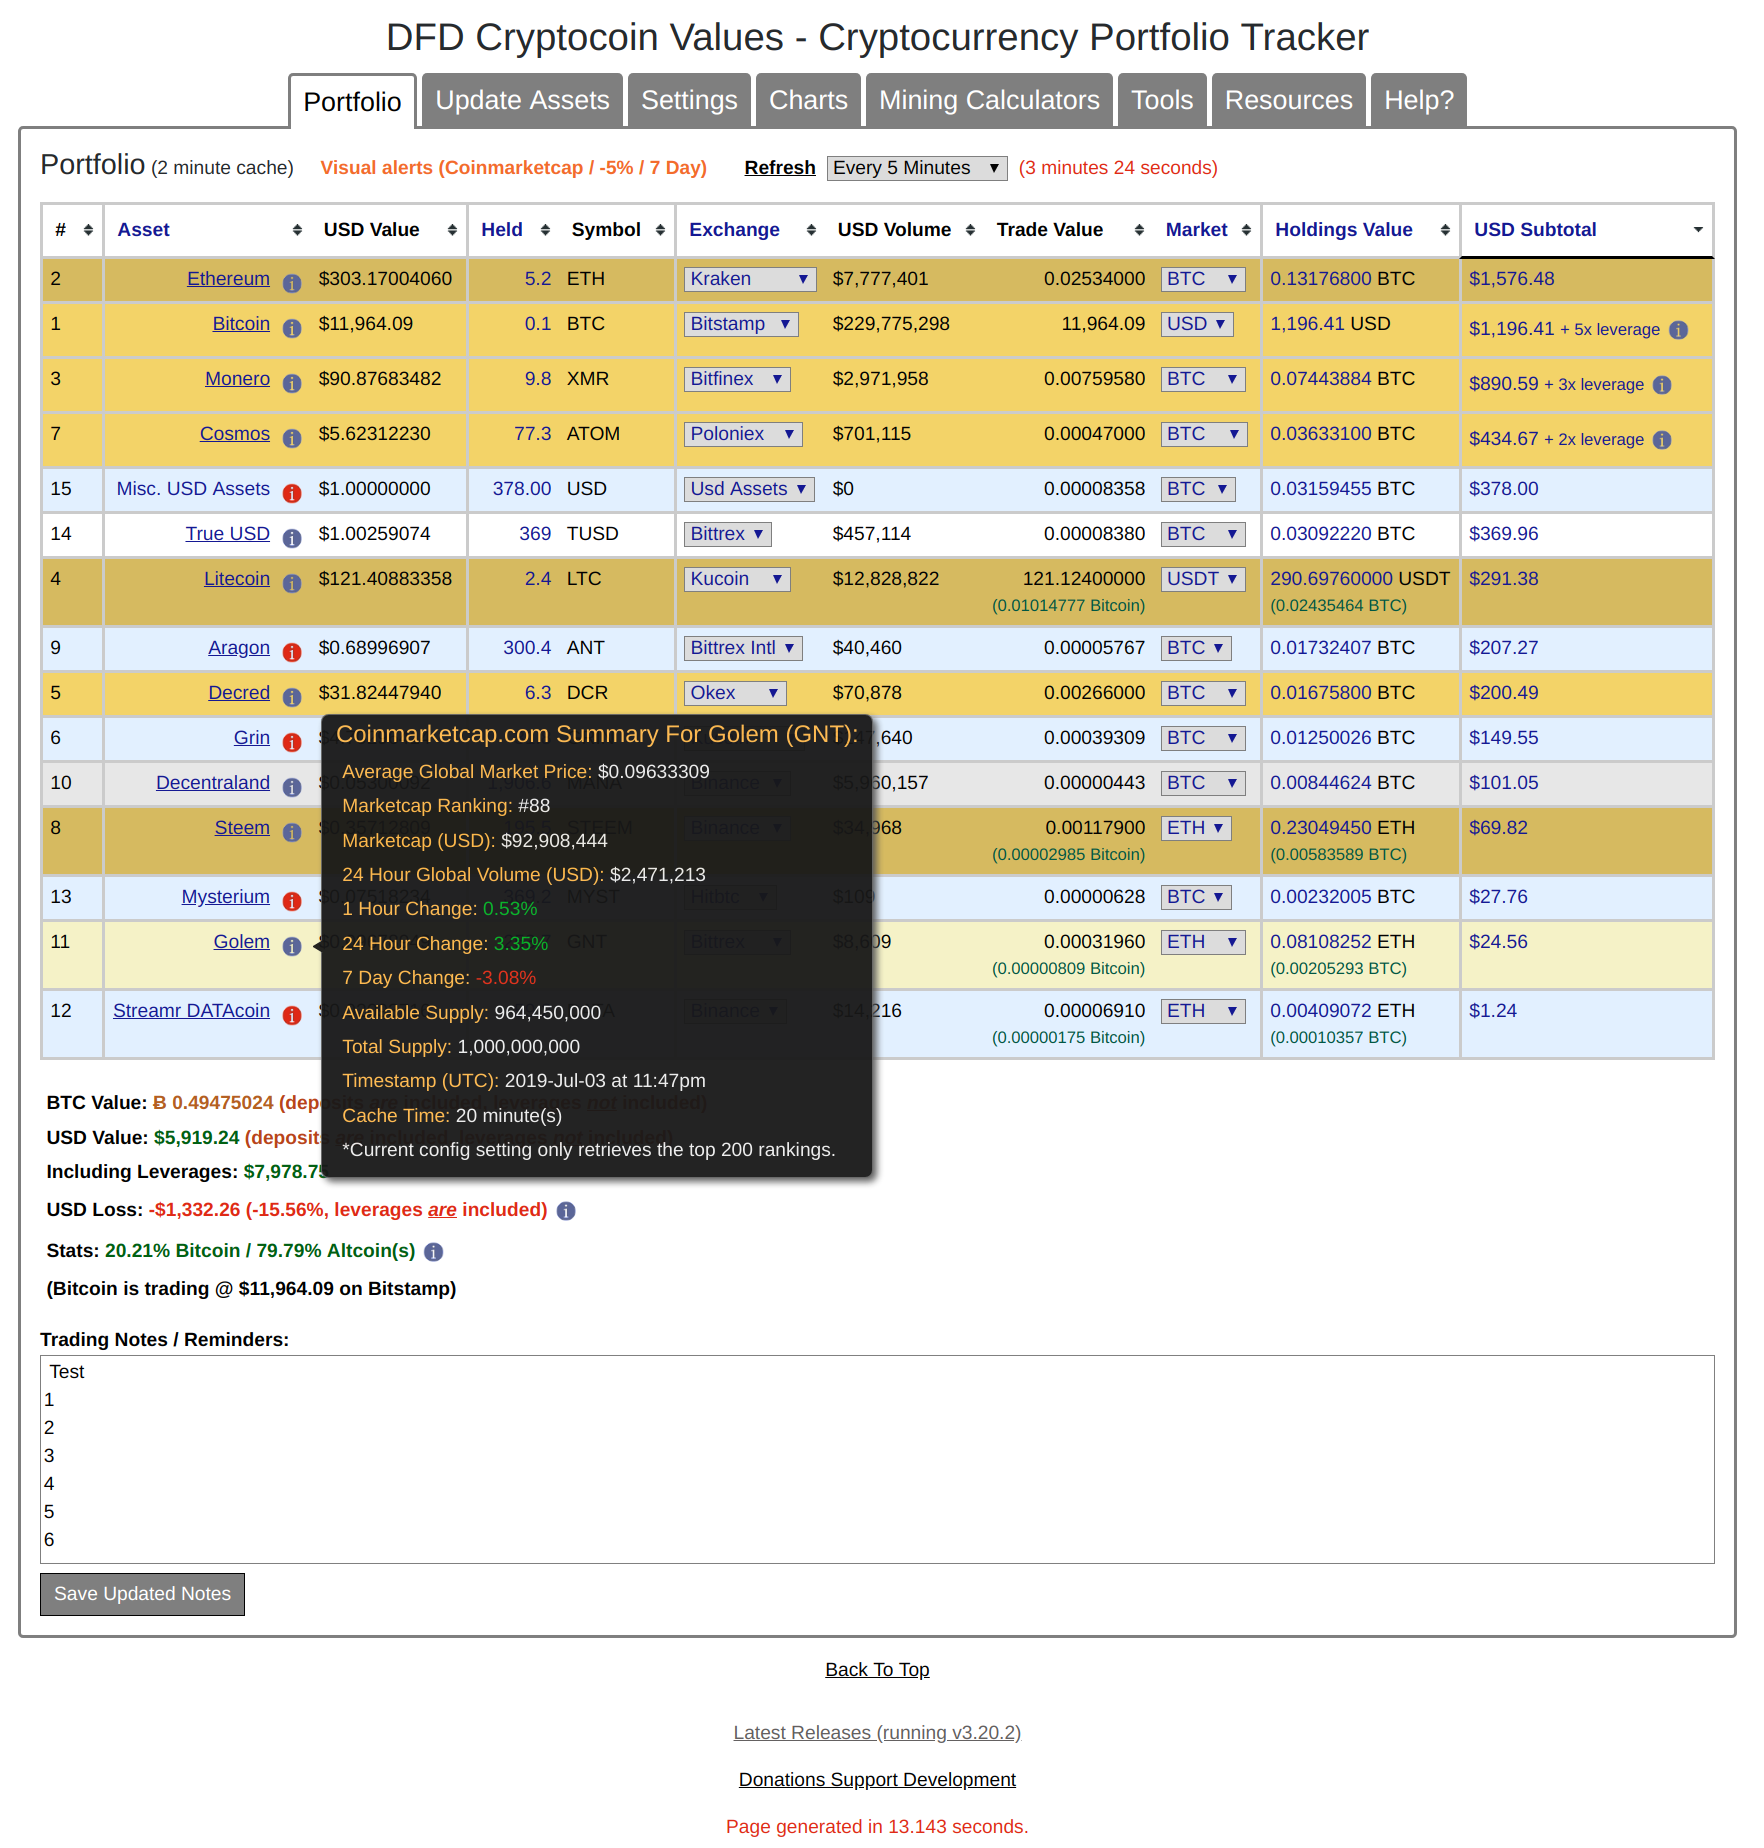
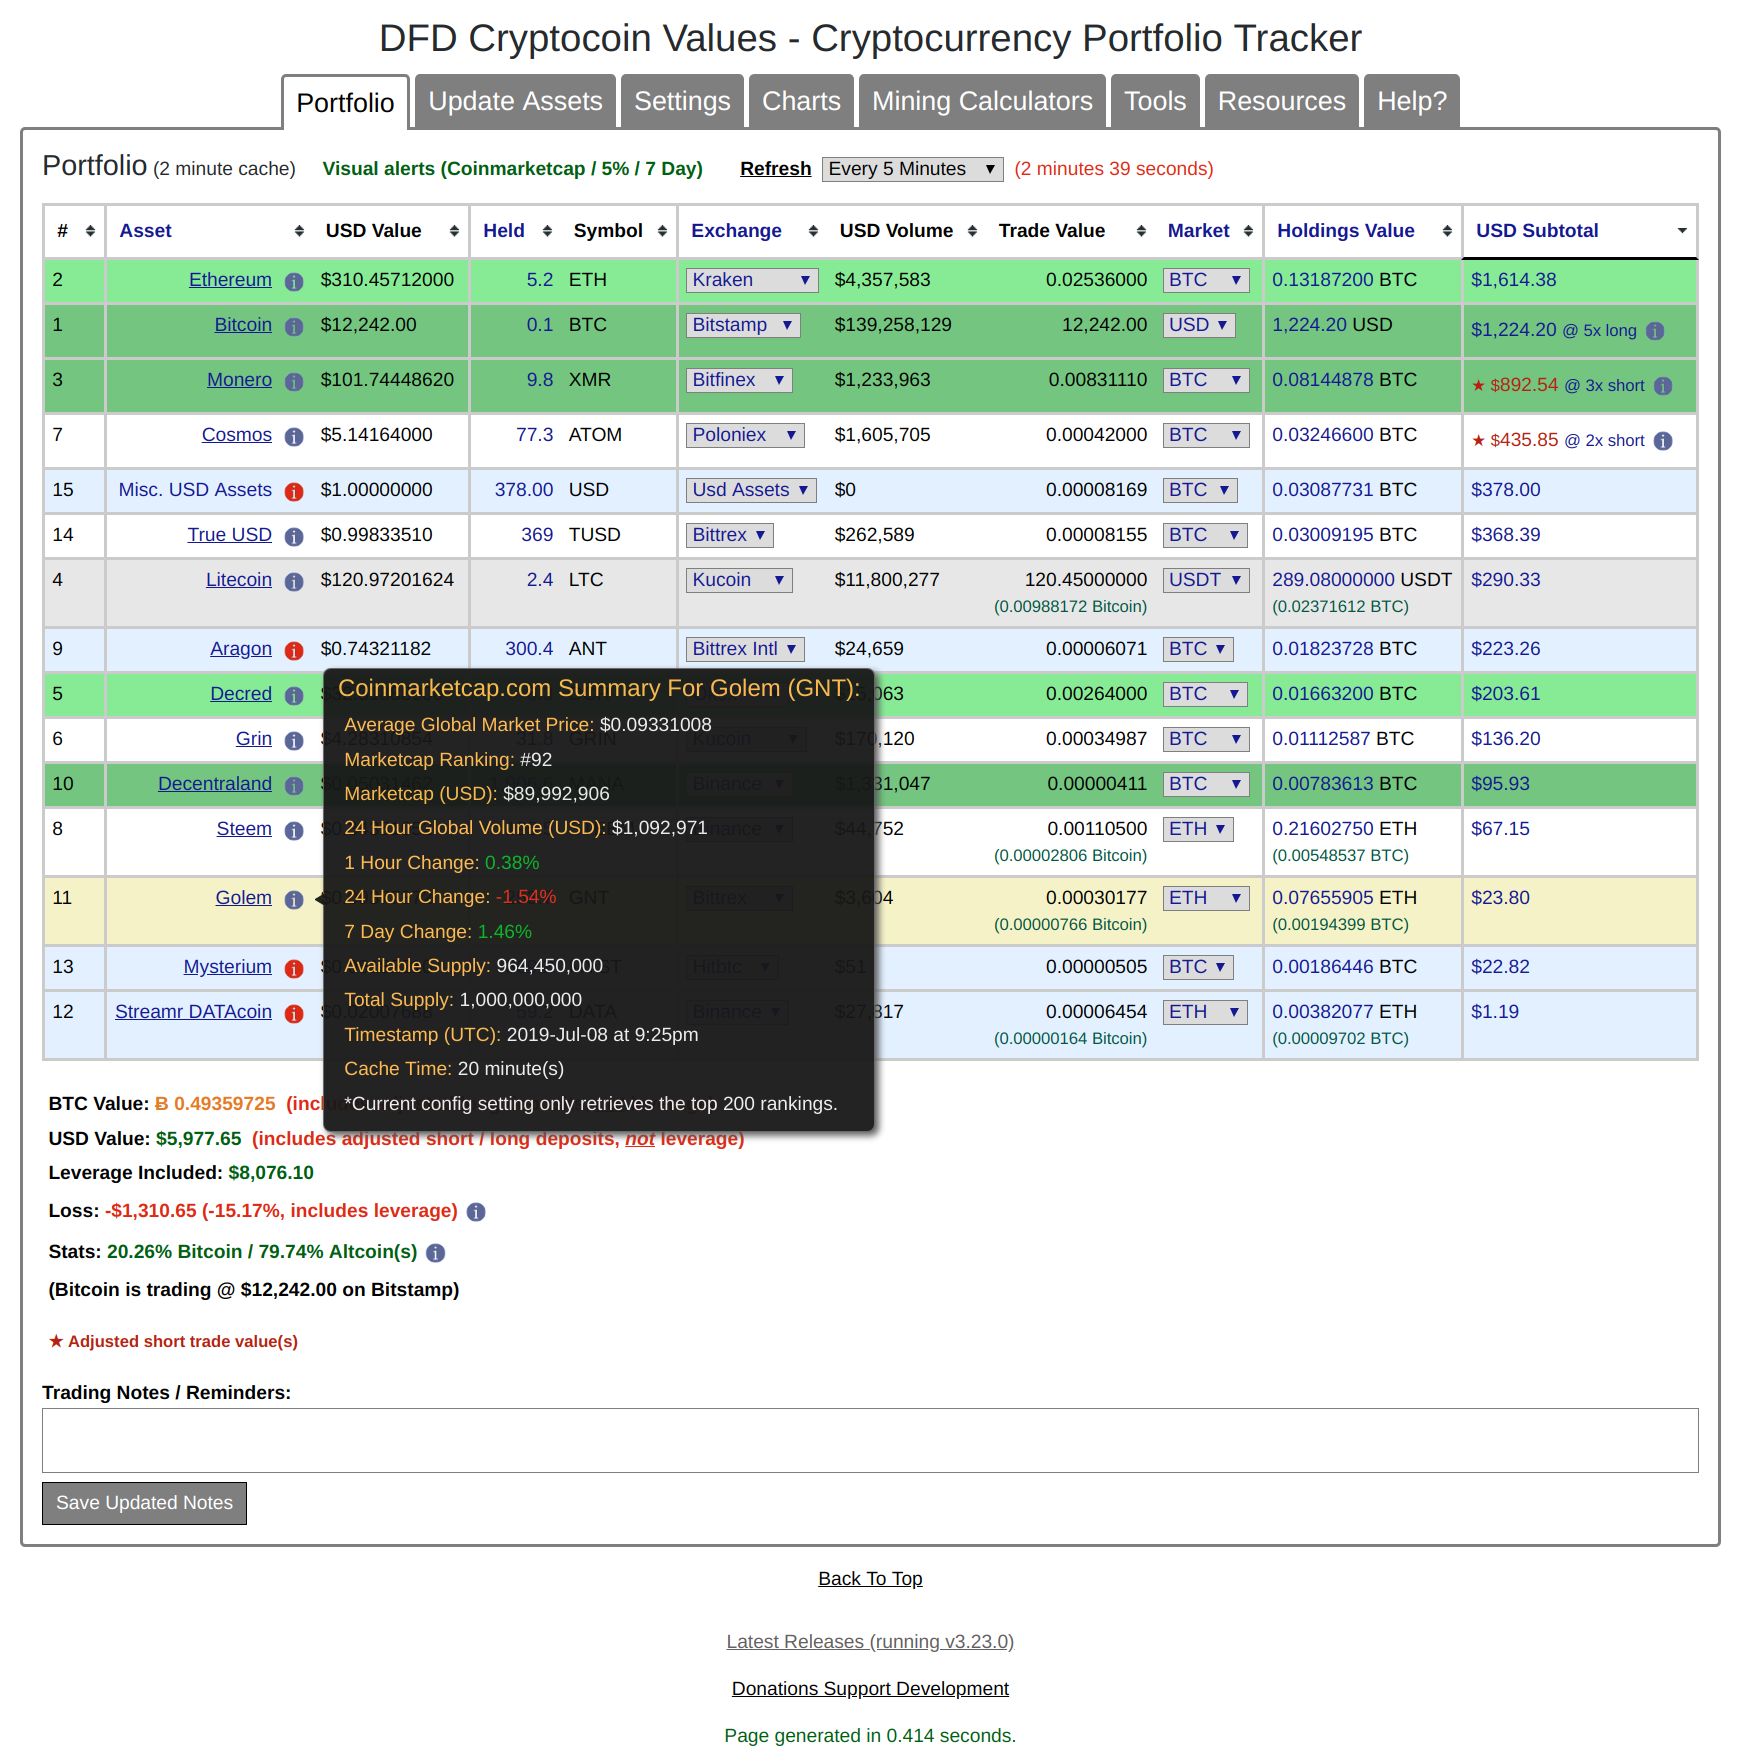
Updated screenshots for project website
Updated screenshots for project website

diff --git a/misc-docs-etc/Developing-maintaining/project-site/index.html b/misc-docs-etc/Developing-maintaining/project-site/index.html
@@ -50,7 +50,9 @@
       
       <a class="example-image-link" href="images/screens/portfolio2.png" data-lightbox="example-set" data-title="Portfolio Page / Marketcap Stats"><img style='vertical-align: top;' class="example-image" src="images/screens/thumbs/portfolio2.png" width='200' alt=""/></a>
       
-      <a class="example-image-link" href="images/screens/portfolio3.png" data-lightbox="example-set" data-title="Portfolio Page / Dominance Stats"><img style='vertical-align: top;' class="example-image" src="images/screens/thumbs/portfolio3.png" width='200' alt=""/></a>
+      <a class="example-image-link" href="images/screens/portfolio3.png" data-lightbox="example-set" data-title="Portfolio Page / Margin Leverage Stats"><img style='vertical-align: top;' class="example-image" src="images/screens/thumbs/portfolio3.png" width='200' alt=""/></a>
+      
+      <a class="example-image-link" href="images/screens/portfolio4.png" data-lightbox="example-set" data-title="Portfolio Page / Dominance Stats"><img style='vertical-align: top;' class="example-image" src="images/screens/thumbs/portfolio4.png" width='200' alt=""/></a>
     
       <a class="example-image-link" href="images/screens/charts.png" data-lightbox="example-set" data-title="Charts Page"><img style='vertical-align: top;' class="example-image" src="images/screens/thumbs/charts.png" width='200' alt=""/></a>
     
